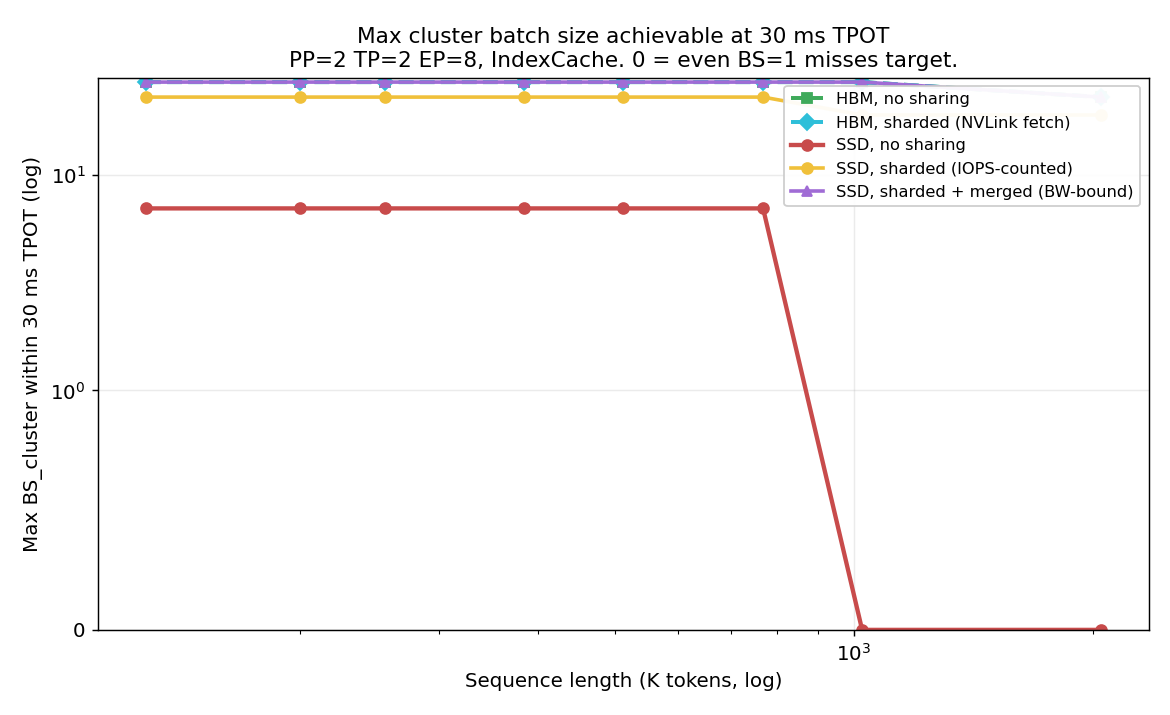
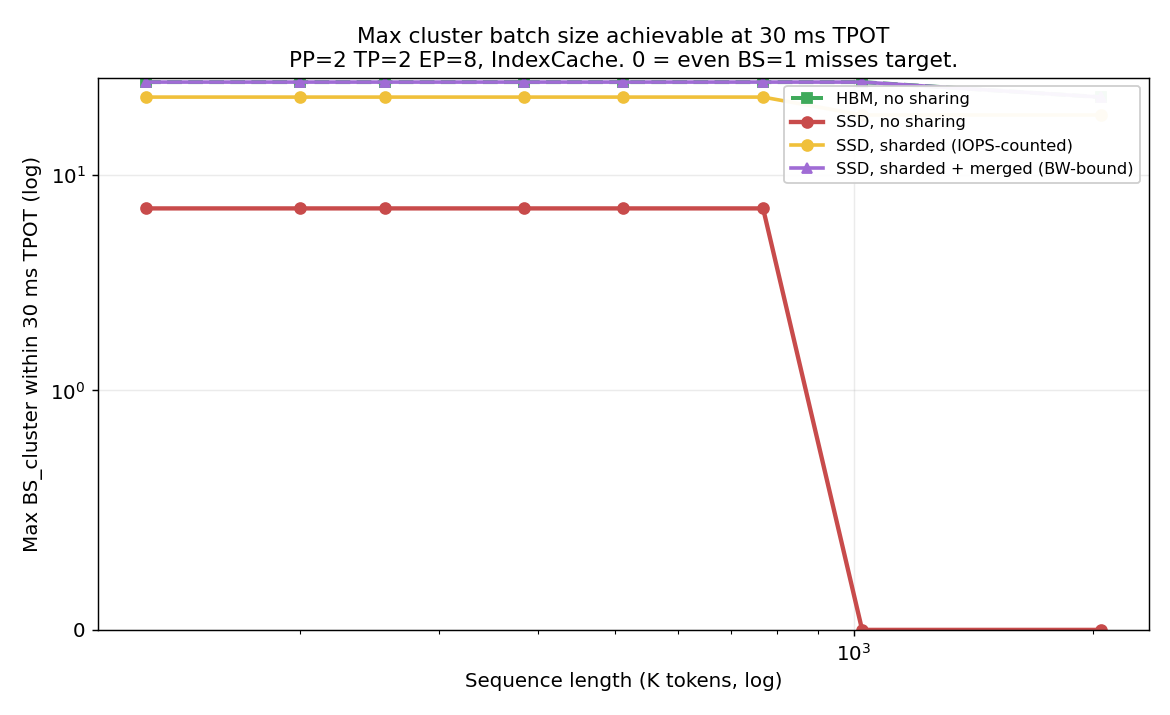
Drop hbm_shard; reframe red zone of must-merge plot
- Remove hbm_shard from CONFIGS — keeping only the four relevant
  configurations: hbm_full (reference), ssd_full, ssd_shard, ssd_shard_merge
- Reframe the red zone of must_merge_frontier.png honestly: it's the
  region where even merged sharded SSD misses the TPOT target. The
  plot doesn't claim HBM is the only fix — options are reduce BS, scale
  the cluster, or move KV off SSD (faster drives/more drives/HBM)
- Drop the hbm_shard reference line from must_merge_frontier (no longer
  in CONFIGS)

https://claude.ai/code/session_01Hc6HPkDRmKxauvdumkV5Yi

Changed region(s): [[0.6769, 0.1538, 0.9846, 0.3077]]

diff --git a/experiments/kv_sharing_sweep.py b/experiments/kv_sharing_sweep.py
@@ -5,7 +5,6 @@ hits a wall and where HBM + sharing becomes the only viable path.
 
 Configs:
   hbm_full        — KV in HBM, no sharing (each GPU duplicates full KV)
-  hbm_shard       — KV in HBM, sharded across PP stage (1/G local + NVLink fetch)
   ssd_full        — KV on SSD, no sharing, per-token IOPS-counted
   ssd_shard       — KV on SSD, sharded, per-token IOPS-counted
   ssd_shard_merge — KV on SSD, sharded, IO units merged (BW-bound)
@@ -75,7 +74,6 @@ def ssd_ms(bytes_, iops_count, hw: HW):
 CONFIGS = {
     # (kvres, kvshard, kvmerge)
     "hbm_full":         ("hbm", False, False),
-    "hbm_shard":        ("hbm", True,  False),
     "ssd_full":         ("ssd", False, False),
     "ssd_shard":        ("ssd", True,  False),
     "ssd_shard_merge":  ("ssd", True,  True),
@@ -83,7 +81,6 @@ CONFIGS = {
 
 CONFIG_LABELS = {
     "hbm_full":        "HBM, no sharing",
-    "hbm_shard":       "HBM, sharded (NVLink fetch)",
     "ssd_full":        "SSD, no sharing",
     "ssd_shard":       "SSD, sharded (IOPS-counted)",
     "ssd_shard_merge": "SSD, sharded + merged (BW-bound)",
@@ -91,7 +88,6 @@ CONFIG_LABELS = {
 
 CONFIG_COLORS = {
     "hbm_full":        "#3FAA5B",  # green
-    "hbm_shard":       "#2EBFD9",  # cyan
     "ssd_full":        "#C84B4B",  # red
     "ssd_shard":       "#F0C03A",  # yellow
     "ssd_shard_merge": "#A06CD5",  # purple
@@ -100,7 +96,6 @@ CONFIG_COLORS = {
 CONFIG_STYLES = {
     # (linestyle, linewidth, marker)
     "hbm_full":        ("--", 2.2, "s"),
-    "hbm_shard":       ("--", 2.2, "D"),
     "ssd_full":        ("-",  2.4, "o"),
     "ssd_shard":       ("-",  2.0, "o"),
     "ssd_shard_merge": ("-",  2.0, "^"),
@@ -378,7 +373,6 @@ def plot_must_merge_frontier(hw: HW, tpot_target=30.0):
 
     unmerged = [crossover_bs(sl, "ssd_shard") for sl in sls]
     merged   = [crossover_bs(sl, "ssd_shard_merge") for sl in sls]
-    hbm_lim  = [crossover_bs(sl, "hbm_shard") for sl in sls]
 
     fig, ax = plt.subplots(figsize=(9, 5.5))
     x = [s / 1024 for s in sls]
@@ -386,21 +380,19 @@ def plot_must_merge_frontier(hw: HW, tpot_target=30.0):
     # Shaded zones
     # Safe (no merge needed): below the unmerged ceiling
     ax.fill_between(x, 0, unmerged, color="#3FAA5B", alpha=0.18,
-                    label="Safe — no merge needed")
+                    label="Safe — scattered per-token I/Os meet target")
     # Must-merge: between unmerged ceiling and merged ceiling
     ax.fill_between(x, unmerged, merged, color="#F0C03A", alpha=0.30,
-                    label="MUST merge — unmerged misses target")
-    # Beyond merge: above merged ceiling, SSD can't help (need HBM)
-    top = max(max(merged), max(hbm_lim)) * 1.3
+                    label="MUST merge — unmerged misses target, merging saves you")
+    # Beyond merge: even merged SSD misses target at this BS
+    top = max(merged) * 1.3
     ax.fill_between(x, merged, [top] * len(x), color="#C84B4B", alpha=0.18,
-                    label="Even merged SSD fails — need HBM")
+                    label="Even merged SSD misses target — reduce BS, scale cluster, or move KV off SSD")
 
     ax.plot(x, unmerged, color="#F0C03A", linewidth=2.5, marker="o",
-            markersize=6, label=f"ssd_shard (unmerged) — max BS at {tpot_target:.0f} ms")
+            markersize=6, label=f"ssd_shard (unmerged) ceiling at {tpot_target:.0f} ms")
     ax.plot(x, merged, color="#A06CD5", linewidth=2.5, marker="^",
-            markersize=6, label=f"ssd_shard_merge — max BS at {tpot_target:.0f} ms")
-    ax.plot(x, hbm_lim, color="#2EBFD9", linewidth=2.2, linestyle="--", marker="D",
-            markersize=5, label=f"hbm_shard — max BS at {tpot_target:.0f} ms")
+            markersize=6, label=f"ssd_shard_merge ceiling at {tpot_target:.0f} ms")
 
     ax.set_xscale("log")
     ax.set_xlabel("Sequence length (K tokens, log)")

diff --git a/reports/KV_SHARING_SWEEP.md b/reports/KV_SHARING_SWEEP.md
@@ -10,11 +10,10 @@
 
 | key | KV residence | Within-stage sharing | Local I/O mode |
 |---|---|---|---|
-| `hbm_full` | HBM | off (duplicates) | n/a |
-| `hbm_shard` | HBM | on (1/G local + (G-1)/G via NVLink) | n/a |
+| `hbm_full` | HBM | off | n/a |
 | `ssd_full` | SSD | off | per-token IOPS-counted |
-| `ssd_shard` | SSD | on | per-token IOPS-counted |
-| `ssd_shard_merge` | SSD | on | merged → bandwidth-bound |
+| `ssd_shard` | SSD | on (1/G local + (G-1)/G via NVLink) | per-token IOPS-counted |
+| `ssd_shard_merge` | SSD | on (1/G local + (G-1)/G via NVLink) | merged → bandwidth-bound |
 
 `G = EP = 8` GPUs per PP stage.
 
@@ -23,12 +22,12 @@
 ### `tpot_vs_sl.png` — TPOT vs sequence length at BS_cluster=24
 - **SSD, no sharing** (red): pinned at ~170 ms regardless of sl — IOPS saturated even at small sl.
 - **SSD, sharded IOPS-counted** (yellow): walks above the 30 ms target at sl≈1M; collapses fast past that.
-- **SSD, sharded + merged** (purple) and **both HBM** (green/cyan): tied until ~2M where SSD-merged starts to drift above HBM (SSD BW becomes binding).
+- **SSD, sharded + merged** (purple) and **HBM** (green): tied until ~2M where SSD-merged starts to drift above HBM (SSD BW becomes binding).
 
 ### `tpot_vs_bs.png` — TPOT vs BS_cluster at sl=512K
 - **SSD, no sharing**: misses 30 ms target even at BS=4. Useless.
 - **SSD, sharded IOPS-counted**: hits target at BS≈22, climbs IOPS-bound thereafter.
-- **SSD, sharded + merged** and both HBM lines: track each other up to BS≈24 (compute-bound regime — MoE GEMM is the floor for all of them), merged diverges slowly past BS=64.
+- **SSD, sharded + merged** and **HBM**: track each other up to BS≈24 (compute-bound regime — MoE GEMM is the floor for both), merged diverges slowly past BS=64.
 
 ### `ssd_saturation.png` — Where SSD runs out (BW and IOPS utilization)
 - **SSD, no sharing**: **~170 % of IOPS cap** — fundamentally infeasible.
@@ -42,13 +41,13 @@
 
 ### `must_merge_frontier.png` — Where merging becomes mandatory
 - **Green zone** (below the yellow line): safe — unmerged scattered I/Os meet target.
-- **Yellow zone** (between unmerged and merged ceilings): **must-merge** — unmerged SSD misses target, merging is the only way to stay in budget without HBM.
-- **Red zone** (above merged ceiling): even merged SSD fails — need to fall back to HBM.
-- Concretely: at sl ≤ 768K the must-merge zone is **BS=24–27**; at sl = 1M it widens to **BS=20–27**; past 2M, merging buys you ~4 BS over unmerged but both fall behind HBM.
+- **Yellow zone** (between unmerged and merged ceilings): **must-merge** — unmerged sharded SSD misses target, merging is the only way to stay in budget on the same SSD hardware.
+- **Red zone** (above merged ceiling): even merged sharded SSD misses target — to serve here you'd have to reduce BS, scale up the cluster, or move KV off SSD (faster SSD, more drives, or HBM).
+- Concretely: at sl ≤ 768K the must-merge band is **BS=24–27**; at sl = 1M it widens to **BS=20–27**; past 2M, merging still buys you ~4 BS over unmerged but the merged ceiling itself starts dropping (SSD BW becomes binding).
 
 ## Headlines
 
-1. **Even SSD is not enough at scale.** With no sharing, IOPS is at 170 % of cap before you even start — the config is broken from sl=128K. With sharing alone, you reach ~100 % IOPS at ~24 batch — right at the cliff. Only **merging the per-token I/Os into sequential transfers** unblocks IOPS, after which **the SSD BW (28 GB/s) becomes the next ceiling** and diverges from HBM (1384 GB/s) past sl≈2M / BS≈64.
+1. **Even SSD is not enough at scale.** With no sharing, IOPS is at 170 % of cap before you even start — the config is broken from sl=128K. With sharing alone, you reach ~100 % IOPS at ~24 batch — right at the cliff. Only **merging the per-token I/Os into sequential transfers** unblocks IOPS, after which **the SSD BW (28 GB/s) becomes the next ceiling** and starts to fall behind HBM (1384 GB/s) past sl≈2M / BS≈64.
 
 2. **There is a specific serving regime where you have no choice but to merge.** Once BS_cluster crosses ~24 (at sl ≤ 768K) or ~20 (at sl ≥ 1M), unmerged sharded SSD misses the 30 ms target while merged still makes it. That's the must-merge zone in `must_merge_frontier.png` — yellow band. Below it, scattered per-token I/Os are fine; inside it, merging is mandatory; above it, even merging falls short and only HBM keeps up.
 
